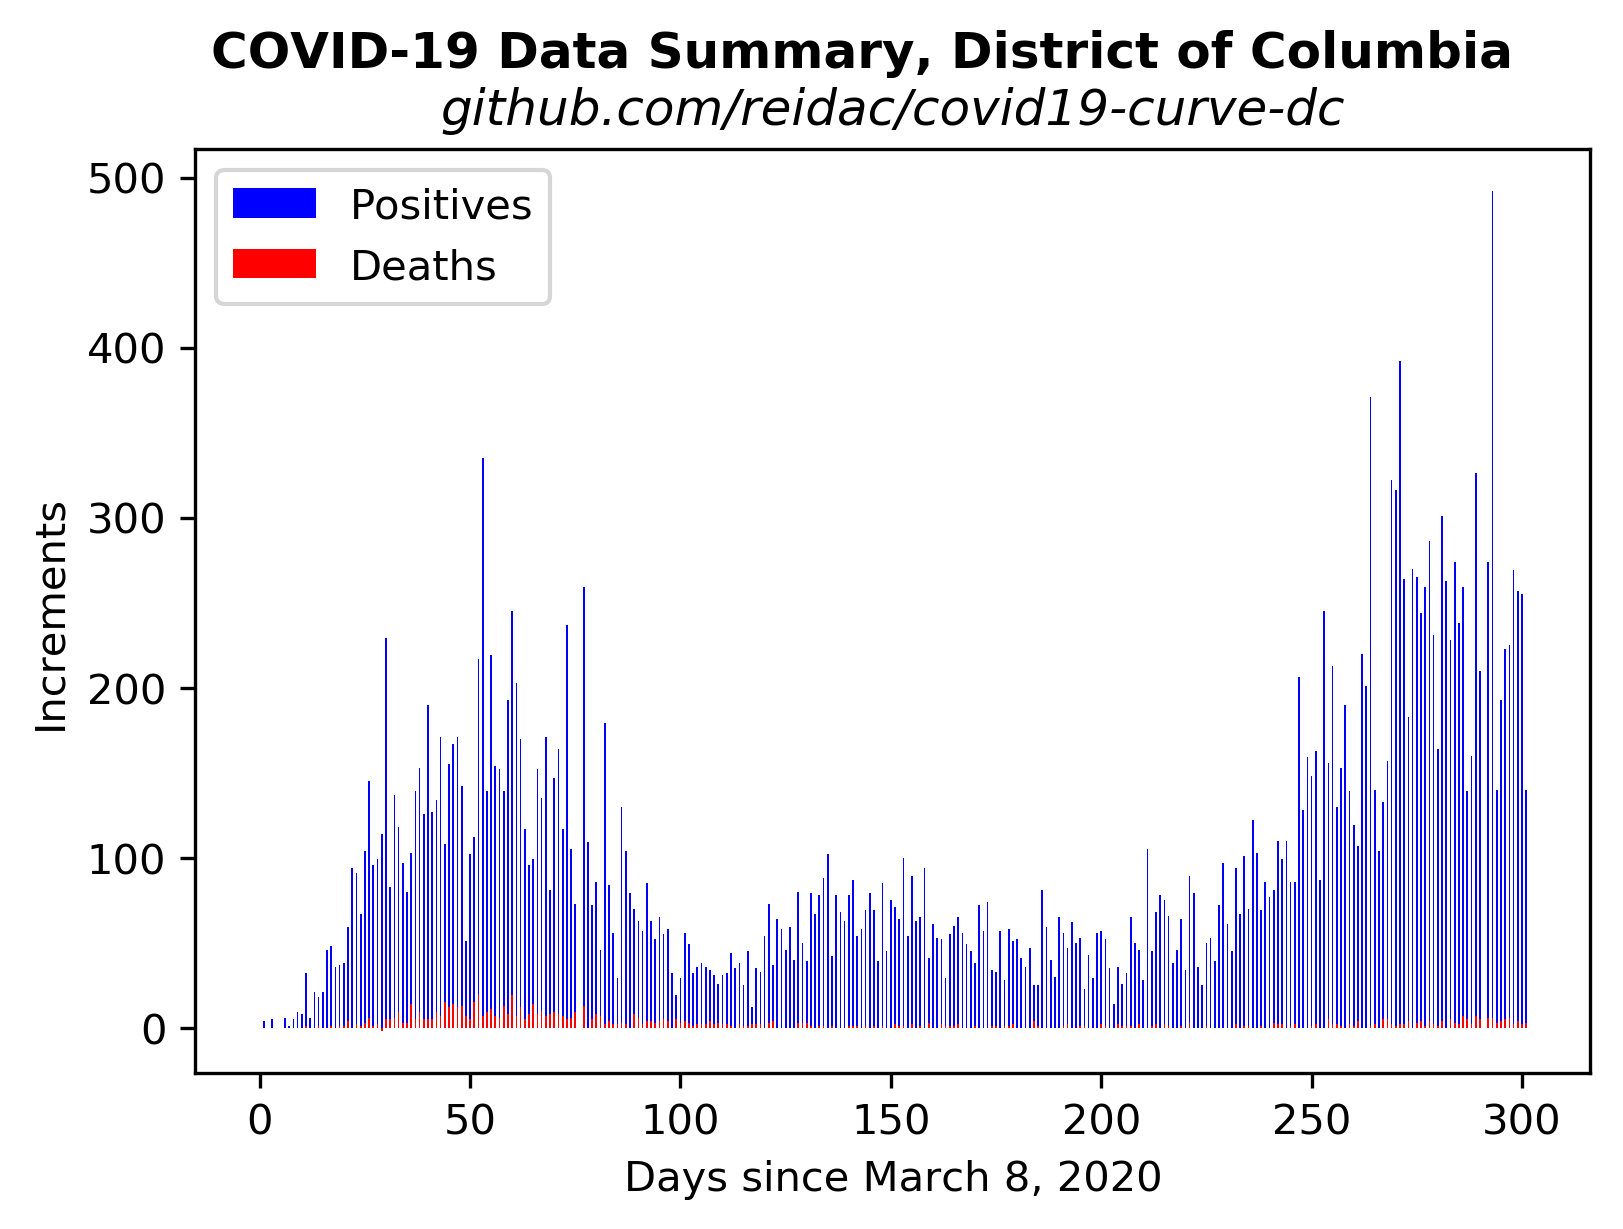
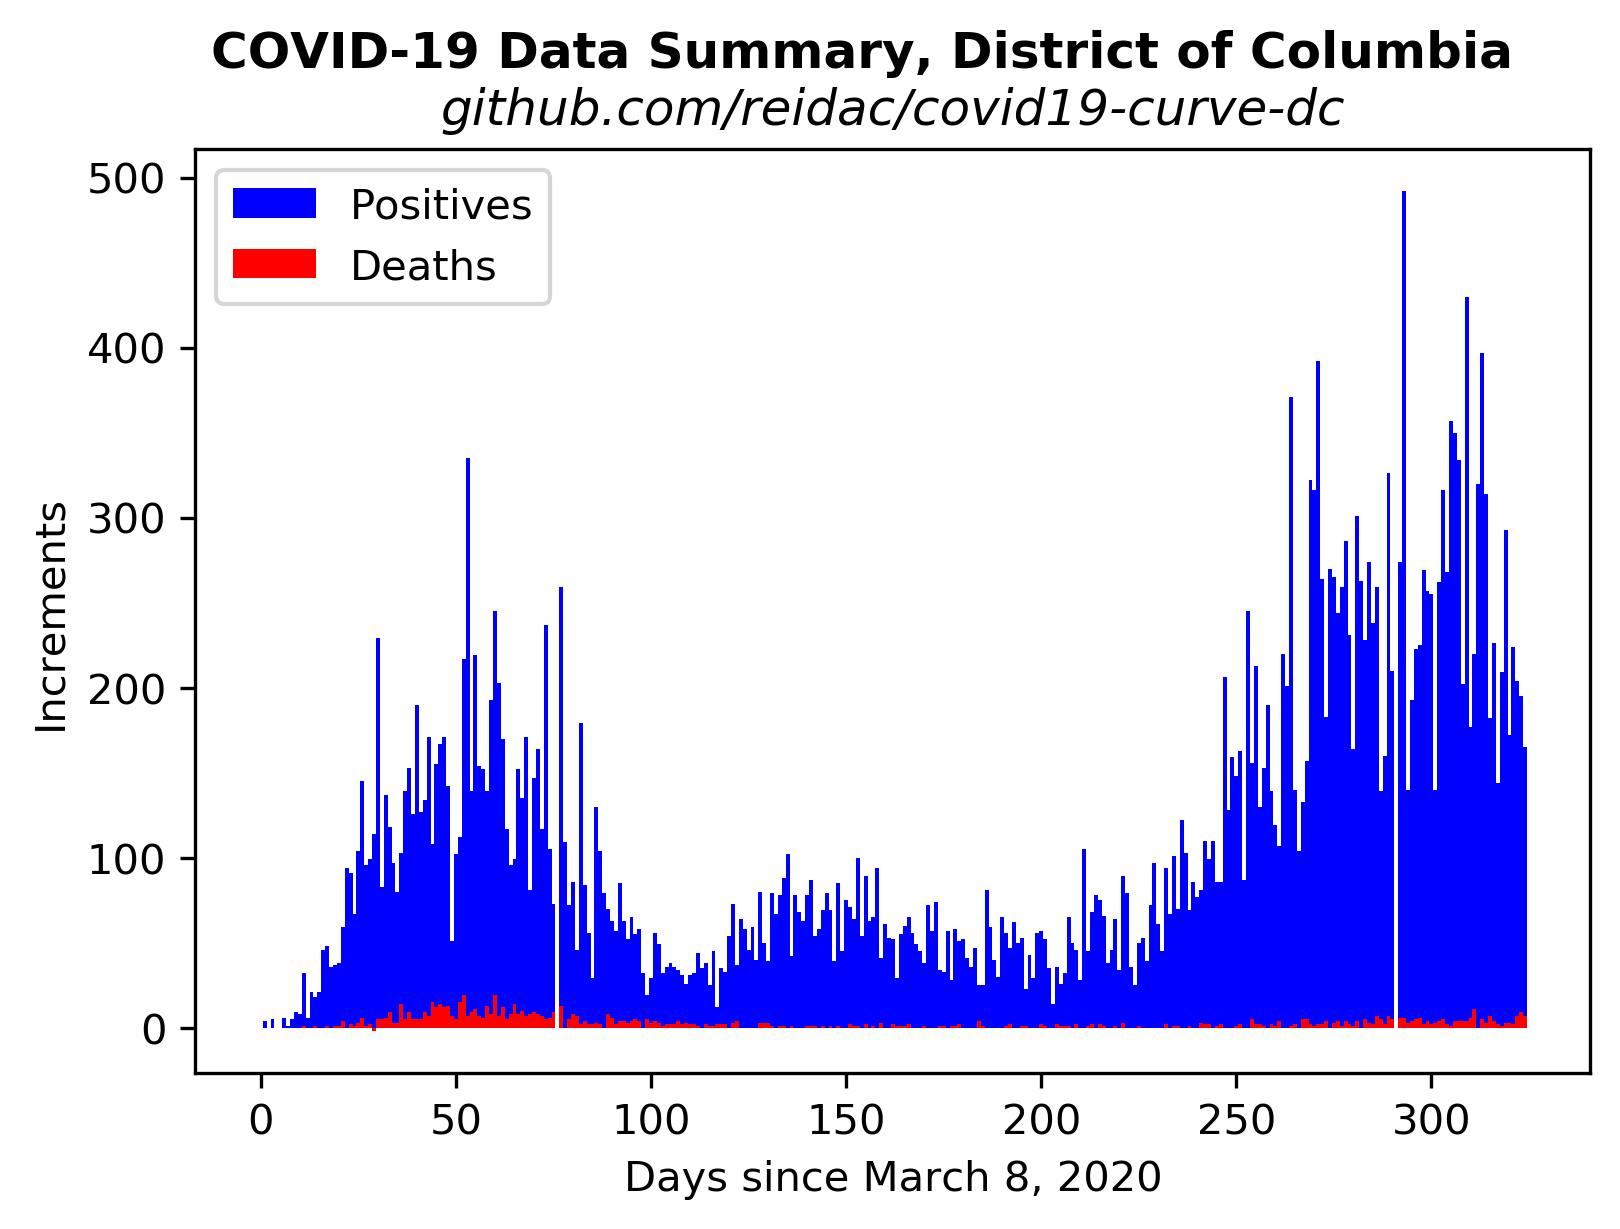
Updated the code that generates the increment bar graph.

diff --git a/bars.py b/bars.py
@@ -20,8 +20,8 @@ total_incs = [casedata.positive[i+1]-casedata.positive[i] for i in range(inclen)
 pos_incs = [casedata.deaths[i+1]-casedata.deaths[i] for i in range(inclen)]
 # recov_incs = [casedata.recovered[i+1]-casedata.recovered[i] for i in range(inclen)]
 
-plt.bar(casedata.x[:-1],total_incs,color='b',width=0.4)
-plt.bar(casedata.x[:-1],pos_incs,color='r',width=0.4)
+plt.bar(casedata.x[:-1],total_incs,color='b',width=1.0)
+plt.bar(casedata.x[:-1],pos_incs,color='r',width=1.0)
 # plt.bar(casedata.x[:-1]+0.4,recov_incs,color='g',width=0.4)
 
 plt.legend(labels=['Positives','Deaths'])
